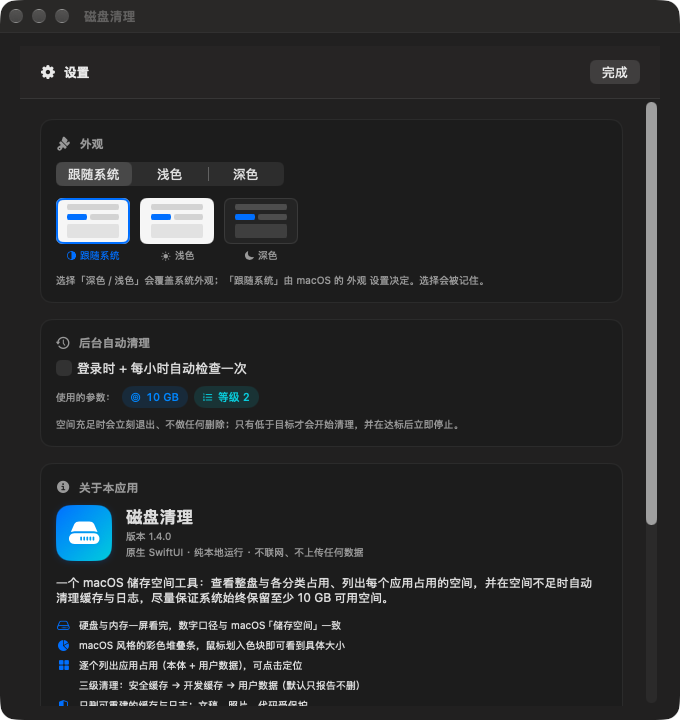
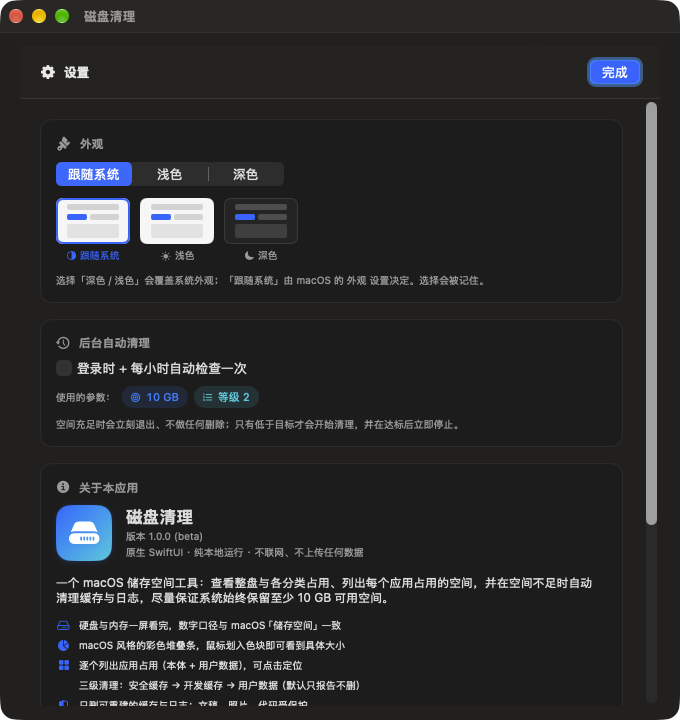
release: mark this version as 1.0.0 (beta)
- CFBundleShortVersionString: 1.0.0 -> 1.0.0-beta
- app header shows a BETA badge; Settings shows '1.0.0 (beta)'
- Settings reads the version from the bundle instead of hard-coding it
- README/CHANGELOG/release notes updated for the beta, screenshots refreshed

diff --git a/Sources/ContentView.swift b/Sources/ContentView.swift
@@ -47,7 +47,16 @@ struct ContentView: View {
             AppLogo(size: 34)
 
             VStack(alignment: .leading, spacing: 2) {
-                Text("磁盘清理").font(.system(size: 15, weight: .semibold))
+                HStack(spacing: 6) {
+                    Text("磁盘清理").font(.system(size: 15, weight: .semibold))
+                    Text("BETA")
+                        .font(.system(size: 9, weight: .bold))
+                        .padding(.horizontal, 5)
+                        .padding(.vertical, 1)
+                        .background(Capsule().fill(Color.orange.opacity(0.18)))
+                        .foregroundStyle(Color.orange)
+                        .help("1.0.0 beta：功能可用，但可能仍有一些问题")
+                }
                 Text("自动保持至少 \(model.targetGB) GB 可用空间")
                     .font(.caption).foregroundStyle(.secondary)
             }
@@ -775,8 +784,13 @@ struct SettingsView: View {
     @ObservedObject var model: CleanerModel
     @Environment(\.dismiss) private var dismiss
 
+    /// "1.0.0-beta" -> "1.0.0 (beta)"
     private var version: String {
-        (Bundle.main.object(forInfoDictionaryKey: "CFBundleShortVersionString") as? String) ?? "1.0.0"
+        let raw = (Bundle.main.object(forInfoDictionaryKey: "CFBundleShortVersionString") as? String) ?? "1.0.0"
+        guard let dash = raw.firstIndex(of: "-") else { return raw }
+        let number = String(raw[raw.startIndex..<dash])
+        let tag = String(raw[raw.index(after: dash)...])
+        return "\(number) (\(tag))"
     }
 
     var body: some View {

diff --git a/docs/releases/v1.0.0-beta.md b/docs/releases/v1.0.0-beta.md
@@ -1,6 +1,6 @@
-# DiskCleaner v1.0.0
+# DiskCleaner v1.0.0 (Beta)
 
-First public release 🎉
+First public release — **beta** 🎉
 
 A native macOS storage cleaner with a GUI: it shows you where your disk space actually went
 and quietly keeps at least **10 GB** free.
@@ -11,7 +11,7 @@ and quietly keeps at least **10 GB** free.
 
 | File | Notes |
 |---|---|
-| `DiskCleaner-v1.0.0-macos-universal.zip` | Universal binary — Apple Silicon **and** Intel, macOS 14+ |
+| `DiskCleaner-v1.0.0-beta-macos-universal.zip` | Universal binary — Apple Silicon **and** Intel, macOS 14+ |
 | `DiskCleaner-v1.0.0-macos-universal.zip.sha256` | SHA-256 checksum |
 
 Unzip, then drag `DiskCleaner.app` into **/Applications**.
@@ -62,13 +62,13 @@ Unzip, then drag `DiskCleaner.app` into **/Applications**.
 
 ## 中文说明
 
-首个公开版本 🎉
+首个公开版本 —— **测试版（beta）** 🎉
 
 一个原生 macOS 储存空间工具：看清空间去哪了，并自动保持至少 **10 GB** 可用。
 
 ### 下载
 
-下载 `DiskCleaner-v1.0.0-macos-universal.zip`（通用二进制，Apple Silicon 与 Intel 均可），
+下载 `DiskCleaner-v1.0.0-beta-macos-universal.zip`（通用二进制，Apple Silicon 与 Intel 均可），
 解压后把 `DiskCleaner.app` 拖进「应用程序」。
 
 > 首次打开：发布包是 ad-hoc 签名（未公证），系统会提示无法验证开发者。
@@ -94,7 +94,7 @@ Unzip, then drag `DiskCleaner.app` into **/Applications**.
 ## Checksums
 
 ```
-SHA256 (DiskCleaner-v1.0.0-macos-universal.zip) = see the .sha256 asset
+SHA256 (DiskCleaner-v1.0.0-beta-macos-universal.zip) = see the .sha256 asset
 ```
 
 ## Full changelog

diff --git a/README.md b/README.md
@@ -9,7 +9,7 @@ caches and logs in the background so your Mac never runs out of space.
 [![Platform](https://img.shields.io/badge/platform-macOS%2014%2B-blue)](#requirements)
 [![Swift](https://img.shields.io/badge/Swift-5.9%2B-orange)](https://swift.org)
 [![License](https://img.shields.io/badge/license-MIT-green)](LICENSE)
-[![Release](https://img.shields.io/badge/release-v1.0.0-purple)](#download)
+[![Release](https://img.shields.io/badge/release-v1.0.0--beta-orange)](#download)
 
 > **Note:** the app UI is currently in **Simplified Chinese**.
 > English localization is on the [roadmap](#roadmap) — PRs are very welcome.
@@ -57,8 +57,8 @@ breakdown with hover tooltips, and per-app usage:
 
 ### Download
 
-Grab the latest `DiskCleaner-v1.0.0-macos-universal.zip` from
-**[Releases](https://github.com/wang90/disk-cleaner/releases)**, unzip, and drag
+Grab `DiskCleaner-v1.0.0-beta-macos-universal.zip` from
+**[Releases](https://github.com/wang90/disk-cleaner/releases)** (marked *Pre-release*), unzip, and drag
 `DiskCleaner.app` into `/Applications`.
 
 The build is **ad-hoc signed** (not notarized), so the first launch shows

diff --git a/CHANGELOG.md b/CHANGELOG.md
@@ -5,9 +5,12 @@ All notable changes to this project are documented in this file.
 The format is based on [Keep a Changelog](https://keepachangelog.com/en/1.1.0/),
 and this project adheres to [Semantic Versioning](https://semver.org/spec/v2.0.0.html).
 
-## [1.0.0] — 2026-09-17
+## [1.0.0-beta] — 2026-09-17
 
-First public release. 🎉
+First public release — **beta**. 🎉
+
+Everything described below works and has been tested on macOS 14+; it is labelled beta
+because the UI is Simplified-Chinese-only and the build is not yet notarized.
 
 ### Added
 
@@ -59,4 +62,4 @@ First public release. 🎉
 - Release builds are **ad-hoc signed**, not notarized, so macOS Gatekeeper requires a
   right-click → Open on first launch.
 
-[1.0.0]: https://github.com/wang90/disk-cleaner/releases/tag/v1.0.0
+[1.0.0-beta]: https://github.com/wang90/disk-cleaner/releases/tag/v1.0.0-beta

diff --git a/README.zh-CN.md b/README.zh-CN.md
@@ -50,8 +50,8 @@ DiskCleaner 会告诉你磁盘空间到底去哪了（整盘 + macOS「储存空
 
 ### 直接下载
 
-到 **[Releases](https://github.com/wang90/disk-cleaner/releases)** 下载最新的
-`DiskCleaner-v1.0.0-macos-universal.zip`，解压后把 `DiskCleaner.app` 拖进「应用程序」。
+到 **[Releases](https://github.com/wang90/disk-cleaner/releases)** 下载 `DiskCleaner-v1.0.0-beta-macos-universal.zip`
+（标记为 *Pre-release*，即测试版），解压后把 `DiskCleaner.app` 拖进「应用程序」。
 
 发布包是 **ad-hoc 签名**（未公证），首次打开会提示
 *"Apple 无法验证 DiskCleaner 是否包含恶意软件"*，这是正常的 ——
